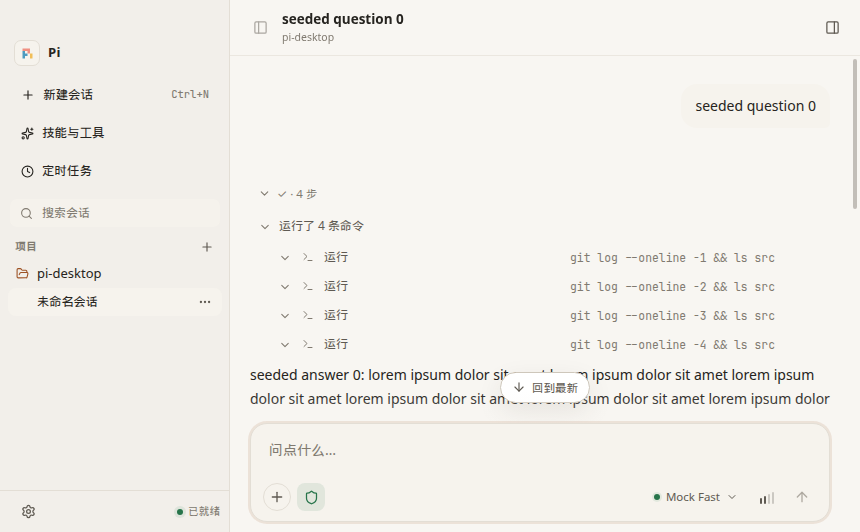
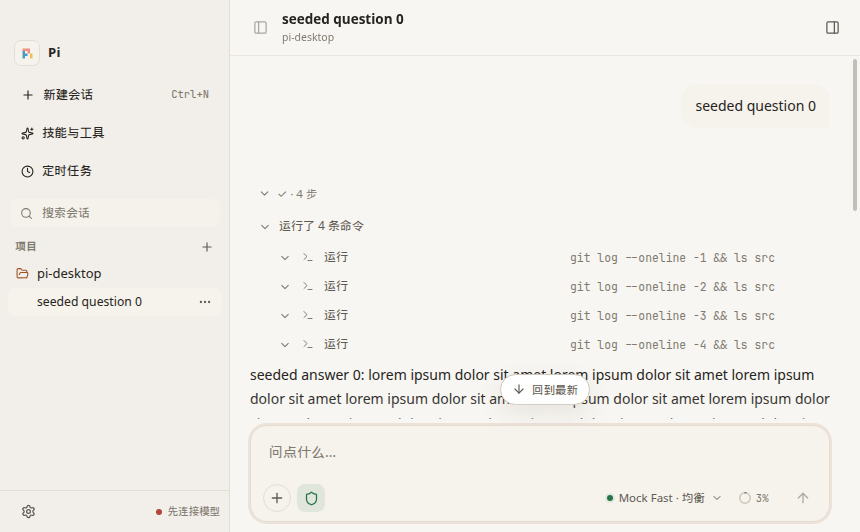
Show always-visible context ring and fix effort radio mapping.
Keep a compact muted ring+percent beside the model chip (warning above 80%), with a token/auto-compact tooltip, and select effort buckets by mapped level so keyboard focus stays on the radios.

diff --git a/src/renderer/src/components/Composer.tsx b/src/renderer/src/components/Composer.tsx
@@ -85,6 +85,8 @@ const EFFORT_OPTIONS = [
   }
 ]
 
+type EffortId = (typeof EFFORT_OPTIONS)[number]['id']
+
 function resolveEffortLevel(prefer: ThinkingLevel[], available: ThinkingLevel[]): ThinkingLevel | null {
   for (const level of prefer) {
     if (available.includes(level)) return level
@@ -92,8 +94,16 @@ function resolveEffortLevel(prefer: ThinkingLevel[], available: ThinkingLevel[])
   return null
 }
 
+function effortBucket(level: ThinkingLevel | undefined): EffortId | null {
+  if (!level || level === 'off') return null
+  for (const option of EFFORT_OPTIONS) {
+    if (option.prefer.includes(level)) return option.id
+  }
+  return null
+}
+
 function effortOptionsFor(available: ThinkingLevel[]): Array<{
-  id: 'fast' | 'balanced' | 'deep'
+  id: EffortId
   label: string
   hint: string
   level: ThinkingLevel | null
@@ -106,15 +116,10 @@ function effortOptionsFor(available: ThinkingLevel[]): Array<{
   }))
 }
 
-function effortLabelFor(level: ThinkingLevel | undefined, available: ThinkingLevel[]): string | null {
-  if (!level || level === 'off') return null
-  const options = effortOptionsFor(available)
-  const match = options.find((option) => option.level === level)
-  if (match) return match.label
-  if (level === 'minimal' || level === 'low') return '快速'
-  if (level === 'medium') return '均衡'
-  if (level === 'high' || level === 'xhigh' || level === 'max') return '深入'
-  return null
+function effortLabelFor(level: ThinkingLevel | undefined): string | null {
+  const bucket = effortBucket(level)
+  if (!bucket) return null
+  return EFFORT_OPTIONS.find((option) => option.id === bucket)?.label ?? null
 }
 
 function readImage(file: File): Promise<Attachment> {
@@ -224,7 +229,7 @@ function ModelMenu({ close }: { close: () => void }): ReactNode {
     close()
   }
 
-  const onKeyDown = (event: KeyboardEvent<HTMLDivElement>): void => {
+  const onModelKeyDown = (event: KeyboardEvent<HTMLInputElement>): void => {
     if (!flat.length) return
     if (event.key === 'ArrowDown') {
       event.preventDefault()
@@ -250,9 +255,10 @@ function ModelMenu({ close }: { close: () => void }): ReactNode {
   const effortOptions = effortOptionsFor(availableLevels)
   const showEffort = Boolean(current?.reasoning) && effortOptions.some((option) => option.level)
   const currentLevel = state.piState?.thinkingLevel
+  const currentBucket = effortBucket(currentLevel)
 
   return (
-    <div className="menu" onKeyDown={onKeyDown}>
+    <div className="menu">
       <div className="menu-search">
         <input
           autoFocus
@@ -266,6 +272,7 @@ function ModelMenu({ close }: { close: () => void }): ReactNode {
             setQuery(event.target.value)
             setHighlight(0)
           }}
+          onKeyDown={onModelKeyDown}
         />
       </div>
       <div className="menu-list" id="model-menu-list" role="listbox" ref={listRef}>
@@ -324,12 +331,17 @@ function ModelMenu({ close }: { close: () => void }): ReactNode {
         ))}
       </div>
       {showEffort ? (
-        <div className="thinking-effort" role="radiogroup" aria-label={t('思考程度')}>
+        <div
+          className="thinking-effort"
+          role="radiogroup"
+          aria-label={t('思考程度')}
+          onKeyDown={(event) => event.stopPropagation()}
+        >
           <div className="menu-group-label">{t('思考程度')}</div>
           <div className="thinking-effort-options">
             {effortOptions.map((option) => {
               const enabled = Boolean(option.level)
-              const selected = enabled && option.level === currentLevel
+              const selected = enabled && currentBucket === option.id
               return (
                 <button
                   key={option.id}
@@ -341,6 +353,8 @@ function ModelMenu({ close }: { close: () => void }): ReactNode {
                   className={clsx('thinking-effort-option', selected && 'active', !enabled && 'is-disabled')}
                   onClick={() => {
                     if (!option.level) return
+                    // Keep the current mapped level (e.g. max) instead of collapsing to high.
+                    if (currentBucket === option.id) return
                     void actions.setThinking(option.level)
                   }}
                 >
@@ -1011,9 +1025,7 @@ export function Composer(): ReactNode {
               width={320}
               keyboardNav={false}
               trigger={(open, toggle, expanded) => {
-                const effort = model?.reasoning
-                  ? effortLabelFor(state.piState?.thinkingLevel, state.levels)
-                  : null
+                const effort = model?.reasoning ? effortLabelFor(state.piState?.thinkingLevel) : null
                 const label = model
                   ? effort
                     ? `${model.name} · ${t(effort)}`
@@ -1043,21 +1055,39 @@ export function Composer(): ReactNode {
             >
               {(close) => <ModelMenu close={close} />}
             </Popover>
-            {percent > 50 ? (
-              <div className="context-ring" title={`${t('上下文')} ${Math.round(percent)}%`}>
-                <svg viewBox="0 0 20 20" width="16" height="16">
-                  <circle cx="10" cy="10" r="7.5" className="ring-bg" />
-                  <circle
-                    cx="10"
-                    cy="10"
-                    r="7.5"
-                    className={clsx('ring-fg', percent > 80 && 'warning')}
-                    strokeDasharray={`${Math.min(percent, 100) * 0.471} 47.1`}
-                    transform="rotate(-90 10 10)"
-                  />
-                </svg>
-              </div>
-            ) : null}
+            {(() => {
+              const used = context?.tokens ?? 0
+              const windowSize = context?.contextWindow ?? model?.contextWindow ?? 0
+              const shown = Math.max(0, Math.min(100, Math.round(percent)))
+              const detail = windowSize
+                ? t('上下文 {percent}% · 已用 {used} / {total} tokens')
+                    .replace('{percent}', String(shown))
+                    .replace('{used}', formatTokens(used))
+                    .replace('{total}', formatTokens(windowSize))
+                : t('上下文 {percent}%').replace('{percent}', String(shown))
+              // Reuse the settings copy for 自动压缩上下文.
+              const tip = `${detail}\n${t('上下文接近上限时自动摘要历史，避免请求被截断。')}`
+              return (
+                <div
+                  className={clsx('context-ring', percent > 80 && 'is-warning')}
+                  title={tip}
+                  aria-label={tip.replace('\n', '。')}
+                >
+                  <svg viewBox="0 0 20 20" width="14" height="14" aria-hidden="true">
+                    <circle cx="10" cy="10" r="7.5" className="ring-bg" />
+                    <circle
+                      cx="10"
+                      cy="10"
+                      r="7.5"
+                      className={clsx('ring-fg', percent > 80 && 'warning')}
+                      strokeDasharray={`${Math.min(percent, 100) * 0.471} 47.1`}
+                      transform="rotate(-90 10 10)"
+                    />
+                  </svg>
+                  <span className="context-ring-pct">{shown}%</span>
+                </div>
+              )
+            })()}
 
             <button
               className={clsx('send-button', streaming && 'stop')}

diff --git a/src/renderer/src/i18n/dictionary.ts b/src/renderer/src/i18n/dictionary.ts
@@ -123,7 +123,7 @@ const pairs: Array<[string, string]> = [
   ['个人', 'Personal'], ['应用', 'App'], ['常规', 'General'], ['模型', 'Models'], ['工具与技能', 'Tools & skills'], ['外观', 'Appearance'], ['会话', 'Sessions'], ['键盘快捷键', 'Keyboard shortcuts'], ['关于', 'About'],
   ['界面语言', 'Interface language'], ['选择应用界面显示的语言。', 'Choose the language used in the app interface.'], ['语言', 'Language'],
   ['新建会话', 'New session'], ['新建会话 (⌘N)', 'New session (⌘N)'], ['打开项目', 'Open project'], ['打开文件夹…', 'Open folder…'], ['未选择项目', 'No project selected'], ['选择一个文件夹开始', 'Choose a folder to get started'], ['搜索会话', 'Search sessions'], ['没有匹配的会话。', 'No matching sessions.'], ['还没有会话，新建一个开始。', 'No sessions yet. Start a new one.'], ['重命名', 'Rename'], ['在 Finder 中显示', 'Show in Finder'], ['删除', 'Delete'], ['取消', 'Cancel'],
-  ['Pi 运行状态与诊断', 'Pi status and diagnostics'], ['输入消息', 'Message'], ['添加图片', 'Add images'], ['选择模型', 'Select model'], ['推理强度', 'Reasoning effort'], ['发送方式', 'Send mode'], ['上下文', 'Context'], ['Enter 发送 · Shift+Enter 换行', 'Enter to send · Shift+Enter for a new line'],
+  ['Pi 运行状态与诊断', 'Pi status and diagnostics'], ['输入消息', 'Message'], ['添加图片', 'Add images'], ['选择模型', 'Select model'], ['推理强度', 'Reasoning effort'], ['发送方式', 'Send mode'], ['上下文', 'Context'], ['上下文 {percent}%', 'Context {percent}%'], ['上下文 {percent}% · 已用 {used} / {total} tokens', 'Context {percent}% · {used} / {total} tokens used'], ['Enter 发送 · Shift+Enter 换行', 'Enter to send · Shift+Enter for a new line'],
   ['插话（steer）或排队一条后续消息…', 'Steer or queue a follow-up message…'], ['让 Pi 帮你写代码、查问题、解释代码…', 'Ask Pi to write code, investigate issues, or explain code…'], ['搜索模型…', 'Search models…'], ['Pi 还没就绪，稍等一下…', 'Pi is starting, please wait…'], ['没有匹配的模型', 'No matching models'], [' · 推理', ' · Reasoning'], ['松手添加图片', 'Drop to add images'], ['本轮结束后可切换模型', 'Change models after this turn'], ['本轮结束后可切换推理强度', 'Change reasoning effort after this turn'],
   ['运行中…', 'Working…'], ['回到最新', 'Jump to latest'], ['讲讲这个代码库', 'Explain this codebase'], ['修一个失败的测试', 'Fix a failing test'], ['帮我 review 改动', 'Review my changes'], ['Pi 能读写文件、跑命令、搜网页。发出第一条消息后，这个会话就会被保存下来。', 'Pi can read and write files, run commands, and search the web. This session will be saved when you send your first message.'],
   ['把 Pi 装进桌面。打开一个项目，然后让 Pi 读代码、改文件、跑命令。', 'Bring Pi to your desktop. Open a project and let Pi read code, edit files, and run commands.'], ['Pi 没有在运行', 'Pi is not running'], ['检查设置', 'Check settings'], ['Recent projects', '最近项目'],

diff --git a/src/renderer/src/styles.css b/src/renderer/src/styles.css
@@ -1868,15 +1868,30 @@ textarea {
 .context-ring {
   display: inline-flex;
   align-items: center;
-  gap: 5px;
+  gap: 4px;
+  flex: none;
+  min-width: 3.6em;
   margin-right: 2px;
   font-size: 10.5px;
+  line-height: 1;
   color: var(--text-faint);
   font-family: var(--mono);
+  font-variant-numeric: tabular-nums;
+  cursor: default;
+  user-select: none;
+}
+
+.context-ring.is-warning {
+  color: var(--red);
+}
+
+.context-ring-pct {
+  min-width: 2.4em;
 }
 
 .context-ring svg {
   display: block;
+  flex: none;
 }
 
 .ring-bg {
@@ -1887,10 +1902,10 @@ textarea {
 
 .ring-fg {
   fill: none;
-  stroke: var(--accent);
+  stroke: currentColor;
   stroke-width: 2.2;
   stroke-linecap: round;
-  transition: stroke-dasharray 0.3s ease;
+  transition: stroke-dasharray 0.3s ease, stroke 0.2s ease;
 }
 
 .ring-fg.warning {
